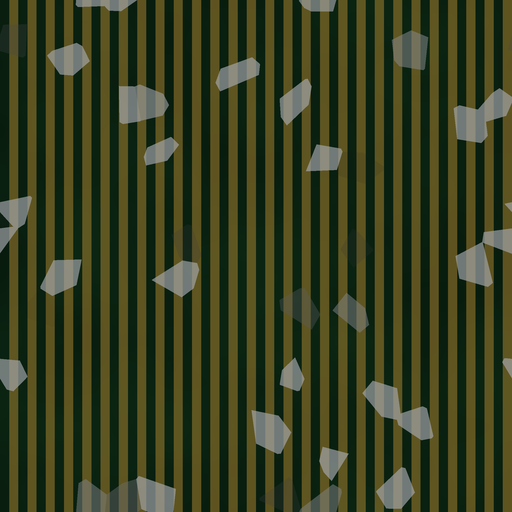
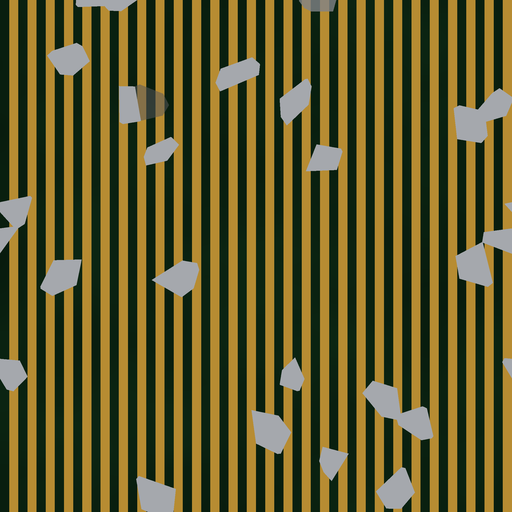
fix(cookbook): resolve sf03 circuit-board trace-bleed-through
Root cause was a type confusion, not the previously-suspected razor-thin
mask threshold: blend's opacity is `amount * a` (blend.mmg) where `a` is
the port-2 input, and the recipe fed the chips' albedo colorize (gray
0.65) as that opacity, so chips rendered at 65% opacity and ~35% of the
trace layer bled through. Split the opacity mask off from the albedo: a
hard 0/1 mask on the same voronoi threshold drives opacity, the albedo
colorize still drives colour (the pattern cookbook_stone s04 already
used). Applied the same fix to the trace layer (its gold colorize,
luminance ~0.57, doubled as its own mask, so the base bled ~43% through
and traces read muted olive; now solid gold). Tightened the flat
per-cell chip mask to a near-hard step so borderline cells don't ghost.

AUTHORING.md updated from "partial/unresolved" to the resolved root
cause + the general blend-opacity lesson.

diff --git a/quality/cookbook_scifi.py b/quality/cookbook_scifi.py
@@ -129,14 +129,42 @@ def build_sf03_circuit_board() -> str:
         (0.0, 0, 0, 0), (0.48, 0, 0, 0),
         (0.52, 0.72, 0.55, 0.20), (1.0, 0.72, 0.55, 0.20),
     ])
+    # Same split-mask fix as the chips (below): colorize_traces' "on" value is
+    # gold (luminance ~0.57), so reusing it as the port-2 opacity made the
+    # traces only ~57% opaque and the dark base bled ~43% through them (muted
+    # olive traces). A hard 0/1 mask on the SAME pattern threshold makes the
+    # gold traces solid. The 0.48->0.52 band is kept (not razor-thin) because
+    # the `pattern` wave IS continuous at stripe edges, so the band gives real
+    # edge anti-aliasing here (unlike the flat-per-cell voronoi chip mask).
+    add_node(g, "colorize_traces_mask", "colorize", {})
+    set_gradient(g, "colorize_traces_mask", [
+        (0.0, 0, 0, 0), (0.48, 0, 0, 0),
+        (0.52, 1, 1, 1), (1.0, 1, 1, 1),
+    ])
     add_node(g, "blend_traces", "blend", {"blend_type": 0, "amount": 1})
     add_node(g, "voronoi_chips", "voronoi",
              {"scale_x": 18, "scale_y": 18, "randomness": 1, "intensity": 1,
               "stretch_x": 1, "stretch_y": 1})
     add_node(g, "colorize_chips", "colorize", {})
     set_gradient(g, "colorize_chips", [    # smaller/sparser cells this time
-        (0.0, 0, 0, 0), (0.70, 0, 0, 0),
+        # near-hard step (was a 0.70->0.74 ramp): voronoi port 2 is FLAT per
+        # cell, so a wide ramp doesn't anti-alias edges, it just leaves cells
+        # whose random lands mid-band as faint partial chips. Same tight
+        # threshold on the mask below keeps colour and opacity in lockstep.
+        (0.0, 0, 0, 0), (0.735, 0, 0, 0),
         (0.74, 0.65, 0.66, 0.68), (1.0, 0.65, 0.66, 0.68),
+    ])
+    # ROOT-CAUSE FIX for the long-standing trace-bleed-through bug: blend's
+    # opacity is `amount * a($uv)` (see blend.mmg), where `a` is the port-2
+    # mask. This recipe used to feed colorize_chips (the CHIP ALBEDO, whose
+    # "on" value is 0.65 gray) as that mask, so chips rendered at only ~0.65
+    # opacity and ~35% of the trace stripes bled straight through them. Split
+    # the mask off from the albedo: a hard 0/1 mask on the same voronoi
+    # threshold drives opacity, colorize_chips still drives colour.
+    add_node(g, "colorize_chips_mask", "colorize", {})
+    set_gradient(g, "colorize_chips_mask", [
+        (0.0, 0, 0, 0), (0.735, 0, 0, 0),
+        (0.74, 1, 1, 1), (1.0, 1, 1, 1),
     ])
     add_node(g, "blend_chips", "blend", {"blend_type": 0, "amount": 1})
     add_node(g, "colorize_rgh", "colorize", {})
@@ -150,13 +178,15 @@ def build_sf03_circuit_board() -> str:
     g["connections"] += [
         {"from": "perlin_0", "from_port": 0, "to": "colorize_base", "to_port": 0},
         {"from": "pattern_traces", "from_port": 0, "to": "colorize_traces", "to_port": 0},
+        {"from": "pattern_traces", "from_port": 0, "to": "colorize_traces_mask", "to_port": 0},
         {"from": "colorize_traces", "from_port": 0, "to": "blend_traces", "to_port": 0},
         {"from": "colorize_base", "from_port": 0, "to": "blend_traces", "to_port": 1},
-        {"from": "colorize_traces", "from_port": 0, "to": "blend_traces", "to_port": 2},
+        {"from": "colorize_traces_mask", "from_port": 0, "to": "blend_traces", "to_port": 2},
         {"from": "voronoi_chips", "from_port": 2, "to": "colorize_chips", "to_port": 0},
+        {"from": "voronoi_chips", "from_port": 2, "to": "colorize_chips_mask", "to_port": 0},
         {"from": "colorize_chips", "from_port": 0, "to": "blend_chips", "to_port": 0},
         {"from": "blend_traces", "from_port": 0, "to": "blend_chips", "to_port": 1},
-        {"from": "colorize_chips", "from_port": 0, "to": "blend_chips", "to_port": 2},
+        {"from": "colorize_chips_mask", "from_port": 0, "to": "blend_chips", "to_port": 2},
         {"from": "blend_chips", "from_port": 0, "to": "Material", "to_port": 0},
         {"from": "blend_chips", "from_port": 0, "to": "colorize_rgh", "to_port": 0},
         {"from": "colorize_rgh", "from_port": 0, "to": "Material", "to_port": 2},

diff --git a/docs/AUTHORING.md b/docs/AUTHORING.md
@@ -310,7 +310,7 @@ instead.
 |---|---|---|
 | ![](images/cookbook-scifi/sf01_hull_plating.png) | Diamond-plate hull panel | HIT |
 | ![](images/cookbook-scifi/sf02_hazard_stripe_panel.png) | Hazard stripe panel | HIT |
-| ![](images/cookbook-scifi/sf03_circuit_board.png) | Circuit board | Partial -- see bug below |
+| ![](images/cookbook-scifi/sf03_circuit_board.png) | Circuit board | HIT (bleed-through root-caused + fixed 2026-09-01) |
 | ![](images/cookbook-scifi/sf04_vent_grille_panel.png) | Vent grille panel | HIT |
 
 - **Hull plating:** clone `metal_pattern_2` (a bundled example with a
@@ -333,27 +333,43 @@ instead.
   single node (Min of two square waves = their intersection). Distinct
   from `man01`'s hexagonal grating (beehive-based) -- a square punch
   pattern instead.
-- **Circuit board (partial, unresolved bug):** dark PCB base + fine bright
-  traces (`pattern` Square wave, hard-thresholded, reused as its own mask)
-  worked cleanly on its own. Adding scattered "chip" blocks on top did not:
+- **Circuit board (HIT — the bleed-through bug is root-caused and fixed,
+  2026-09-01):** dark PCB base + fine bright traces + scattered "chip" blocks.
   - v1 used a SECOND `pattern` node with `mix=Xor` of two Square waves for
     the chip mask -- rendered as pure stripes, chip layer completely
-    invisible at every threshold tried (checked the normal map: only the
-    trace lines show). `pattern`'s mix modes aren't documented beyond the
-    enum names, and Xor's actual numeric behavior for continuous wave
-    values isn't obvious. Not worth reverse-engineering for a one-off.
+    invisible at every threshold tried. `pattern`'s Xor mix mode isn't
+    documented beyond the enum name; not worth reverse-engineering.
   - v2 swapped to the PROVEN granite-speckle lever (voronoi port 2, flat
-    per-cell random) instead -- predictable 0..1 range, no guessing. This
-    got chip blocks appearing, but at scale 6 they were huge, amorphous,
-    camo-pattern blobs covering ~40% of the surface, not small ICs.
-  - v3 raised voronoi scale to 18 for small, sparse, genuinely chip-sized
-    blocks. Better size/distribution, but a real bug remains: the
-    underlying trace stripes faintly bleed through the chip shapes even
-    where the mask should be fully opaque (`blend_type=0` "Normal" at
-    `amount=1`). Root cause not identified -- possibly the per-cell mask
-    value isn't as flat/saturated as assumed inside a cell. Kept as a
-    documented partial ("camo-patched circuit board" is still a usable
-    sci-fi texture) rather than sunk into a 4th iteration.
+    per-cell random). Chips appeared, but at scale 6 they were huge camo
+    blobs; v3 raised voronoi scale to 18 for small, sparse, chip-sized blocks.
+  - **The bleed-through bug, RESOLVED.** For several sessions the trace stripes
+    faintly bled through the chip shapes even with `blend_type=0` "Normal" at
+    `amount=1`. The root cause was a **type confusion, not a mask-threshold
+    problem** (an earlier session had ruled out the razor-thin-threshold
+    hypothesis). `blend`'s opacity is `amount * a($uv)` (see
+    `addons/material_maker/nodes/blend.mmg`), where `a` is the **port-2**
+    input. The recipe fed the chips' ALBEDO colorize (whose "on" value is gray
+    **0.65**) as that opacity input, so chips rendered at `1 × 0.65 = 65%`
+    opacity and ~35% of the trace layer bled through. Confirmed three ways: the
+    wiring, the shader source, and the render matching the predicted 65%.
+    **Fix: split the mask off from the albedo** — a separate hard-`1.0` mask
+    colorize on the SAME voronoi threshold drives opacity; the albedo colorize
+    still drives colour. This is exactly the pattern `cookbook_stone`'s s04
+    already used (a dedicated `colorize_gap` 0/1 mask), which this recipe had
+    violated. The traces had the identical latent issue (their gold colorize,
+    luminance ~0.57, doubled as their own mask, so the base bled ~43% through
+    them and they read muted olive); the same split-mask fix makes them solid
+    bright gold.
+  - **General lesson (the durable one):** in Material Maker a `blend`'s opacity
+    is `amount × port-2 mask`. If you feed a mid-value COLOUR into port 2, the
+    layer is partly transparent no matter what `amount` is. Port 2 wants a hard
+    **0/1** mask; never reuse the layer's albedo colorize as its own opacity
+    unless that colorize's "on" value is genuinely 1.0. Also: for a FLAT
+    per-cell mask (voronoi port 2), use a near-hard threshold step — a wide
+    colorize ramp doesn't anti-alias edges there (the input is constant across
+    a cell), it just leaves borderline-value cells as faint partial ghosts; the
+    ramp only buys AA when the mask input is continuous (like a `pattern` wave
+    at a stripe edge).
 
 ## Terrain cookbook (cookbook growth, informal, 2026-08-26)
 
